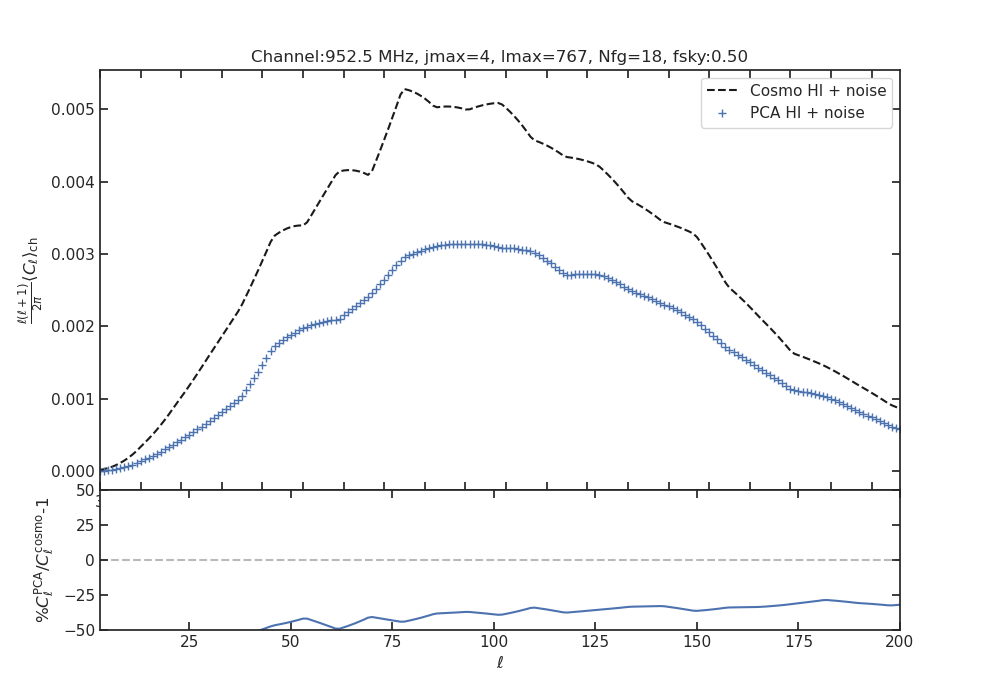
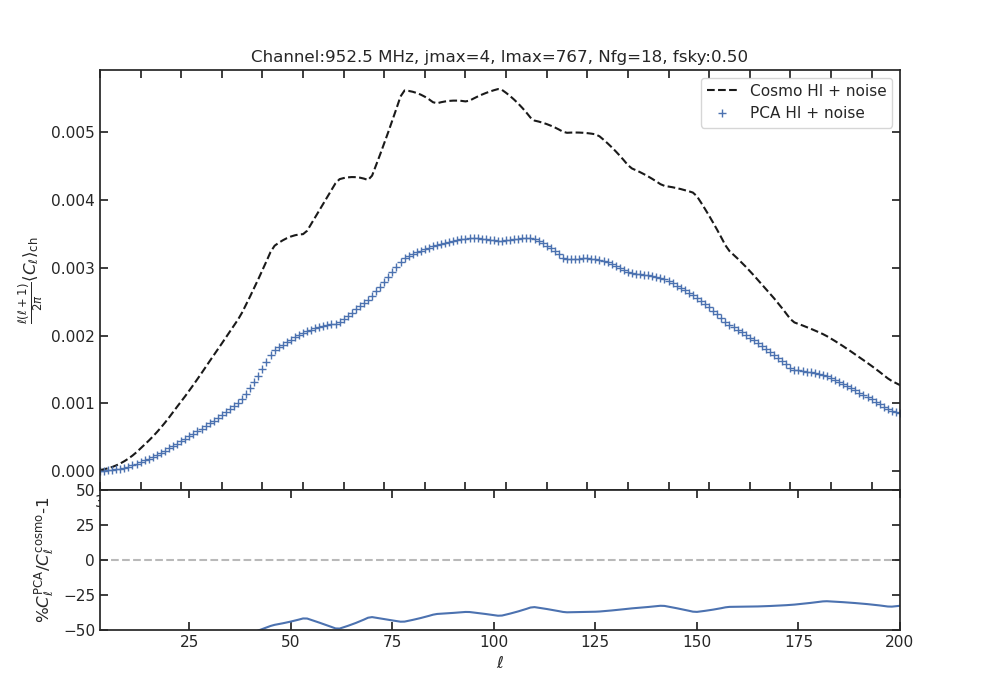
some tests on namaster and fixed the spectra in PCA healpix to save

diff --git a/test_namaster.py b/test_namaster.py
@@ -1,0 +1,146 @@
+import healpy as hp
+import numpy as np
+import matplotlib.pyplot as plt
+import pickle
+import pymaster as nm
+import copy
+###############################
+
+nside=256
+npix = hp.nside2npix(nside)
+lmax=3*nside-1
+
+###################################
+
+pix_mask = hp.query_strip(nside, theta2=np.pi*2/3, theta1=np.pi/3)
+
+mask_50 = np.ones(npix)
+mask_50[pix_mask] =0
+fsky_50 = np.mean(mask_50)
+
+#############################
+beam_s = 'SKA_AA4'
+fg_components='synch_ff_ps'
+path_data_sims_tot = f'Sims/beam_{beam_s}_no_mean_sims_{fg_components}_noise_105freq_900.5_1004.5MHz_thick1.0MHz_lmax767_nside256'
+
+with open(path_data_sims_tot+'.pkl', 'rb') as f:
+		file = pickle.load(f)
+		f.close()
+
+nu_ch= file['freq']
+
+num_freq = len(nu_ch)
+
+nu0 =1420
+print(f'working with {len(nu_ch)} channels, from {min(nu_ch)} to {max(nu_ch)} MHz')
+print(f'i.e. channels are {nu_ch[1]-nu_ch[0]} MHz thick')
+print(f'corresponding to the redshift range z: [{min(nu0/nu_ch -1.0):.2f} - {max(nu0/nu_ch -1.0):.2f}] ')
+
+HI_maps_freq = file['maps_sims_HI'] + file['maps_sims_noise']
+
+del file
+###############################################################
+HI_maps_freq_mask = copy.deepcopy(HI_maps_freq)
+bad_v = np.where(mask_50==0)
+for n in range(num_freq):
+		HI_maps_freq_mask[n][bad_v] = hp.UNSEEN
+		HI_maps_freq_mask[n]        = hp.remove_dipole(HI_maps_freq_mask[n])
+
+#######################################################################
+import pickle
+with open(f'PCA_pixels_output/Maps_PCA/No_mean/Beam_{beam_s}_noise_mask0.5_unseen/res_PCA_HI_noise_{fg_components}_{num_freq}_{min(nu_ch)}_{max(nu_ch)}MHz_Nfg3_lmax{lmax}_nside{nside}.npy', 'rb') as f:
+	res_HI = pickle.load(f)
+	f.close()
+
+
+#cl_PCA_deconv = np.loadtxt(f'PCA_pixels_output/Maps_PCA/No_mean/Beam_{beam_s}_noise_mask0.5_unseen/power_spectra_cls_from_healpix_maps/cl_PCA_HI_noise_{fg_components}_{num_freq}_{min(nu_ch)}_{max(nu_ch)}MHz_Nfg3_lmax512_nside{nside}.dat')
+
+lmax_cl = 2*nside
+ell = np.arange(lmax_cl+1)
+factor_ell = ell*(ell+1)/(2.*np.pi)
+
+delta_ell = 2
+
+b = nm.NmtBin.from_nside_linear(nside, delta_ell)
+ell_mask= b.get_effective_ells()
+
+b_8 = nm.NmtBin.from_nside_linear(nside, 8)
+ell_mask_8= b_8.get_effective_ells()
+
+factor = ell_mask*(ell_mask+1)/(2.*np.pi)
+factor_8 = ell_mask_8*(ell_mask_8+1)/(2.*np.pi)
+
+print(ell_mask, (lmax+1)/delta_ell)
+
+cl_HI_mask_deconv = np.zeros((num_freq, len(ell_mask)))
+cl_PCA_deconv = np.zeros((num_freq, len(ell_mask)))
+
+cl_HI_mask_deconv_8 = np.zeros((num_freq, len(ell_mask_8)))
+cl_PCA_deconv_8 = np.zeros((num_freq, len(ell_mask_8)))
+
+cl_HI_mask_deconv_interp = np.zeros((num_freq, lmax_cl+1))
+cl_PCA_HI_mask_deconv_interp = np.zeros((num_freq, lmax_cl+1))
+
+cl_HI_mask_deconv_interp_8 = np.zeros((num_freq, lmax_cl+1))
+cl_PCA_HI_mask_deconv_interp_8 = np.zeros((num_freq, lmax_cl+1))
+
+for n in range(num_freq):
+	f_0_mask = nm.NmtField(mask_50,[HI_maps_freq_mask[n]] )
+	cl_HI_mask_deconv[n] = nm.compute_full_master(f_0_mask, f_0_mask, b)[0]
+	cl_HI_mask_deconv_interp[n] = np.interp(ell, ell_mask, cl_HI_mask_deconv[n])
+	
+
+	cl_HI_mask_deconv_8[n] = nm.compute_full_master(f_0_mask, f_0_mask, b_8)[0]
+	cl_HI_mask_deconv_interp_8[n] = np.interp(ell, ell_mask_8, cl_HI_mask_deconv_8[n])
+
+	f_0_PCA_mask = nm.NmtField(mask_50,[res_HI[n]] )
+	cl_PCA_deconv[n] = nm.compute_full_master(f_0_PCA_mask, f_0_PCA_mask, b)[0]
+	cl_PCA_deconv_8[n] = nm.compute_full_master(f_0_PCA_mask, f_0_PCA_mask, b_8)[0]
+
+	cl_PCA_HI_mask_deconv_interp[n] = np.interp(ell, ell_mask, cl_PCA_deconv[n])
+	cl_PCA_HI_mask_deconv_interp_8[n] = np.interp(ell, ell_mask_8, cl_PCA_deconv_8[n])
+
+plt.figure()
+plt.plot(ell_mask, factor*cl_HI_mask_deconv.mean(axis=0), label='cl cosmo')
+plt.plot(ell_mask, factor*cl_PCA_deconv.mean(axis=0), label='cl PCA')
+plt.plot(ell_mask_8, factor_8*cl_HI_mask_deconv_8.mean(axis=0), label='cl cosmo 8')
+plt.plot(ell_mask_8, factor_8*cl_PCA_deconv_8.mean(axis=0), label='cl PCA 8')
+plt.xlim(left=0,right=200)
+plt.legend()
+plt.ylabel(r'$\langle \frac{\ell(\ell+1)}{2\pi}C_{\ell} \rangle $')
+plt.xlabel(r'$\ell$')
+
+plt.figure()
+plt.plot(ell_mask, 100*(cl_PCA_deconv/cl_HI_mask_deconv-1).mean(axis=0), label= '2')
+plt.plot(ell_mask_8, 100*(cl_PCA_deconv_8/cl_HI_mask_deconv_8-1).mean(axis=0), label= '8')
+plt.axhline(ls='--', c='k', alpha=0.7)
+plt.xlim(left=0,right=200)
+plt.ylim(bottom=-20, top=20)
+plt.legend()
+plt.ylabel(r'% diff')
+plt.xlabel(r'$\ell$')
+
+
+plt.figure()
+plt.suptitle('interpolation')
+plt.plot(ell, factor_ell*cl_HI_mask_deconv_interp.mean(axis=0), label='cl cosmo')
+plt.plot(ell, factor_ell*cl_PCA_HI_mask_deconv_interp.mean(axis=0), label='cl PCA')
+
+plt.plot(ell, factor_ell*cl_HI_mask_deconv_interp_8.mean(axis=0), label='cl cosmo 8')
+plt.plot(ell, factor_ell*cl_PCA_HI_mask_deconv_interp_8.mean(axis=0), label='cl PCA 8')
+plt.xlim(left=0,right=200)
+plt.legend()
+plt.ylabel(r'$\langle \frac{\ell(\ell+1)}{2\pi}C_{\ell} \rangle $')
+plt.xlabel(r'$\ell$')
+
+plt.figure()
+plt.suptitle('interpolation')
+plt.plot(ell, 100*(cl_PCA_HI_mask_deconv_interp/cl_HI_mask_deconv_interp-1).mean(axis=0), label= '2')
+plt.plot(ell, 100*(cl_PCA_HI_mask_deconv_interp_8/cl_HI_mask_deconv_interp_8-1).mean(axis=0), label= '8')
+plt.axhline(ls='--', c='k', alpha=0.7)
+plt.xlim(left=0,right=200)
+plt.ylim(bottom=-20, top=20)
+plt.legend()
+plt.ylabel(r'% diff')
+plt.xlabel(r'$\ell$')
+plt.show()

diff --git a/PCA_healpix_beam_noise_mask_unseen.py b/PCA_healpix_beam_noise_mask_unseen.py
@@ -435,10 +435,10 @@ plt.show()
 
 
 ####################################################################################
-##### confronto maschera non maschera - mashchera deconvolta #######################
+##### confronto maschera non maschera - maschera deconvolta #######################
 
 #### deconvoluzione
-f_0_mask = nm.NmtField(mask_50,[res_HI[0]] )
+f_0_mask = nm.NmtField(mask_50,[res_HI[0]])#, masked_on_input=True )
 b = nm.NmtBin.from_nside_linear(nside, 8)
 ell_mask= b.get_effective_ells()
 
@@ -449,19 +449,20 @@ ell_mask_0= b_0.get_effective_ells()
 cl_PCA_HI_mask_deconv = np.zeros((num_freq, len(ell_mask)))
 cl_PCA_HI_mask_deconv_interp = np.zeros((num_freq, lmax_cl+1))
 
-cl_PCA_HI_mask_0_deconv = np.zeros((num_freq, len(ell_mask)))
-cl_PCA_HI_mask_0_deconv_interp = np.zeros((num_freq, lmax_cl+1))
+#cl_PCA_HI_mask_0_deconv = np.zeros((num_freq, len(ell_mask)))
+#cl_PCA_HI_mask_0_deconv_interp = np.zeros((num_freq, lmax_cl+1))
 
 for n in range(num_freq):
-    f_0_mask = nm.NmtField(mask_50,[res_HI[n]] )
+    f_0_mask = nm.NmtField(mask_50,[res_HI[n]])#, masked_on_input=True )
     cl_PCA_HI_mask_deconv[n] = nm.compute_full_master(f_0_mask, f_0_mask, b)[0]
     cl_PCA_HI_mask_deconv_interp[n] = np.interp(ell, ell_mask, cl_PCA_HI_mask_deconv[n])
-    f_0_mask_0 = nm.NmtField(mask_50,[res_HI_mask_0[n]] )
-    cl_PCA_HI_mask_0_deconv[n] = nm.compute_full_master(f_0_mask_0, f_0_mask_0, b_0)[0]
-    cl_PCA_HI_mask_0_deconv_interp[n] = np.interp(ell, ell_mask_0, cl_PCA_HI_mask_0_deconv[n])
+    #f_0_mask_0 = nm.NmtField(mask_50,[res_HI_mask_0[n]] )
+    #cl_PCA_HI_mask_0_deconv[n] = nm.compute_full_master(f_0_mask_0, f_0_mask_0, b_0)[0]
+    #cl_PCA_HI_mask_0_deconv_interp[n] = np.interp(ell, ell_mask_0, cl_PCA_HI_mask_0_deconv[n])
 
+np.savetxt(out_dir_cl+f'cl_PCA_HI_noise_{fg_components}_{num_freq}_{min(nu_ch)}_{max(nu_ch)}MHz_Nfg{num_sources}_lmax{lmax_cl}_nside{nside}.dat', cl_PCA_HI_mask_deconv)
 
-np.savetxt(out_dir_cl+f'cl_deconv_PCA_HI_noise_{fg_components}_{num_freq}_{min(nu_ch)}_{max(nu_ch)}MHz_Nfg{num_sources}_lmax{lmax_cl}_nside{nside}.dat', cl_PCA_HI_mask_0_deconv_interp)
+np.savetxt(out_dir_cl+f'cl_deconv_PCA_HI_noise_{fg_components}_{num_freq}_{min(nu_ch)}_{max(nu_ch)}MHz_Nfg{num_sources}_lmax{lmax_cl}_nside{nside}.dat', cl_PCA_HI_mask_deconv_interp)
 
 ################
 #

diff --git a/GMCA_healpix_beam_noise_mask_unseen.py b/GMCA_healpix_beam_noise_mask_unseen.py
@@ -33,7 +33,7 @@ if not os.path.exists(out_dir_plot):
 
 ################################################################
 
-fg_components='synch_ff_ps_pol'
+fg_components='synch_ff_ps'
 
 path_data_sims_tot = f'Sims/beam_{beam_s}_no_mean_sims_{fg_components}_noise_105freq_900.5_1004.5MHz_thick1.0MHz_lmax767_nside256'
 
@@ -386,21 +386,21 @@ plt.show()
 
 
 ####################################################################################
-##### confronto maschera non maschera - mashchera deconvolta #######################
+##### confronto maschera non maschera - maschera deconvolta #######################
 
 #### deconvoluzione
-f_0_mask = nm.NmtField(mask_50,[res_HI[0]] )
+f_0_mask = nm.NmtField(mask_50,[res_HI[0]], masked_on_input=True )
 b = nm.NmtBin.from_nside_linear(nside, 8)
 ell_mask= b.get_effective_ells()
 
 cl_GMCA_HI_mask_deconv = np.zeros((num_freq, len(ell_mask)))
 cl_GMCA_HI_mask_deconv_interp = np.zeros((num_freq, lmax_cl+1))
 
-cl_GMCA_HI_mask_0_deconv = np.zeros((num_freq, len(ell_mask)))
-cl_GMCA_HI_mask_0_deconv_interp = np.zeros((num_freq, lmax_cl+1))
+#cl_GMCA_HI_mask_0_deconv = np.zeros((num_freq, len(ell_mask)))
+#cl_GMCA_HI_mask_0_deconv_interp = np.zeros((num_freq, lmax_cl+1))
 
 for n in range(num_freq):
-    f_0_mask = nm.NmtField(mask_50,[res_HI[n]] )
+    f_0_mask = nm.NmtField(mask_50,[res_HI[n]] , masked_on_input=True)
     cl_GMCA_HI_mask_deconv[n] = nm.compute_full_master(f_0_mask, f_0_mask, b)[0]
     cl_GMCA_HI_mask_deconv_interp[n] = np.interp(ell, ell_mask, cl_GMCA_HI_mask_deconv[n])
     

diff --git a/plot_foregrounds.py b/plot_foregrounds.py
@@ -341,3 +341,16 @@ hp.mollview(pl_maps_beam[ich],  unit= 'T[mK]', min=-1, max=4, title=f'Polarizati
 plt.savefig(f'comp_HI_fg_input_beam_mean_lmax{lmax}_nside{nside}_ch{nu_ch_new[ich]}.png')
 plt.show()
 
+
+fig = plt.figure(figsize=(15, 7))
+#fig.suptitle(f'channel: {nu_ch_new[ich]} MHz, Nside {nside}',fontsize=20)
+fig.add_subplot(141) 
+hp.mollview(synch_maps_beam[ich],  min=100, max=70000, norm='log',unit='T[mK]',cmap='viridis',title=f'Gal synchrotron', hold=True)
+fig.add_subplot(142) 
+hp.mollview(ff_maps_beam[ich], min=1, max=10000, unit='T[mK]',norm='log',cmap='viridis',title=f'Gal free-free',hold=True)
+fig.add_subplot(143)
+hp.mollview(ps_maps_beam[ich],  min=200, max=500,unit='T[mK]',title=f'Point sources',cmap='viridis', hold=True)
+fig.add_subplot(144)
+hp.mollview(pl_maps_beam[ich],  unit= 'T[mK]', min=-1, max=4, title=f'Polarization leakage',cmap='viridis', hold=True)
+plt.savefig(f'comp_HI_fg_input_beam_mean_lmax{lmax}_nside{nside}_ch{nu_ch_new[ich]}_1.png')
+plt.show()

diff --git a/PCA_needlets_output/PCA_needlets_results_beam_noise_mask.py b/PCA_needlets_output/PCA_needlets_results_beam_noise_mask.py
@@ -18,7 +18,7 @@ sns.palettes.color_palette()
 import cython_mylibc as pippo
 ##########################################################################################
 
-beam_s = '1.3deg_SKA_AA4'
+beam_s = 'SKA_AA4'
 
 out_dir_plot = 'Plots_PCA_needlets/'
 dir_PCA = f'PCA_maps/No_mean/Beam_{beam_s}_noise_mask0.5_unseen/'# noise_mask0.39
@@ -28,7 +28,7 @@ if not os.path.exists(out_dir_maps_recon):
 
 
 fg_comp = 'synch_ff_ps_pol'
-beam = '1.3 deg'
+beam = 'SKA AA4'
 
 
 num_ch=105
@@ -285,7 +285,7 @@ else:
 frame2.set_ylabel(r'%$ C_{\ell}^{\rm PCA}/C_{\ell}^{\rm cosmo} $-1')
 frame2.set_xlabel(r'$\ell$')
 frame1.set_xticks(np.arange(lmin,200+1, 10))
-plt.savefig(f'Plots_PCA_needlets/cl_std_need_ch{nu_ch[ich]}_{fg_comp}_noise_beam_SKA_AA4_jmax{jmax}_lmax{lmax_cl}_Nfg{Nfg}_nside{nside}_mask0.5.png')
+plt.savefig(f'Plots_PCA_needlets/cl_std_need_ch{nu_ch[ich]}_{fg_comp}_noise_beam_{beam_s}_jmax{jmax}_lmax{lmax_cl}_Nfg{Nfg}_nside{nside}_mask0.5.png')
 
 plt.show()
 
